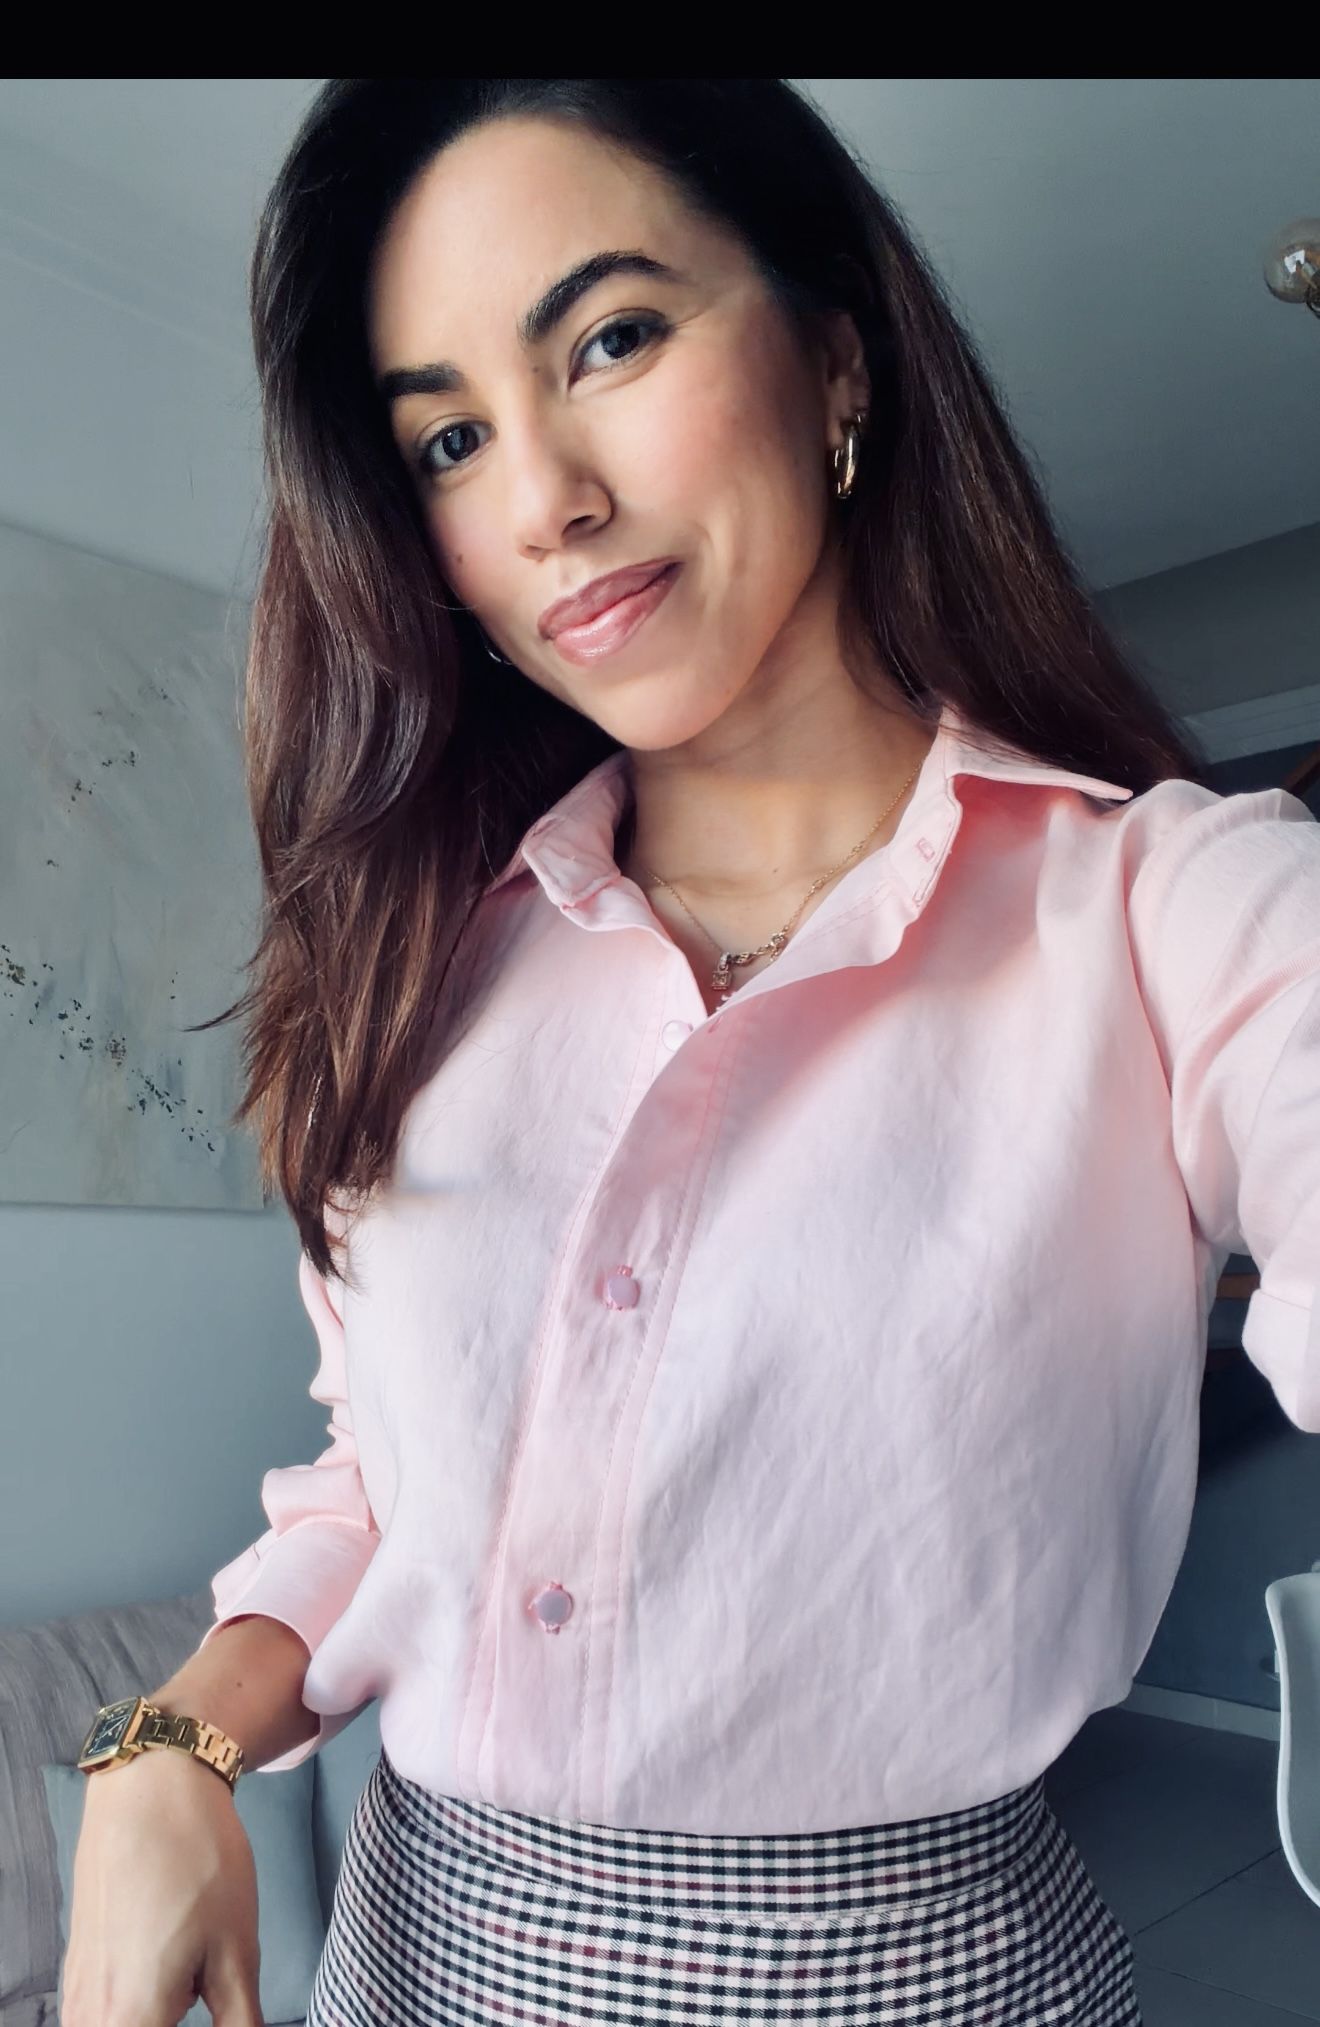
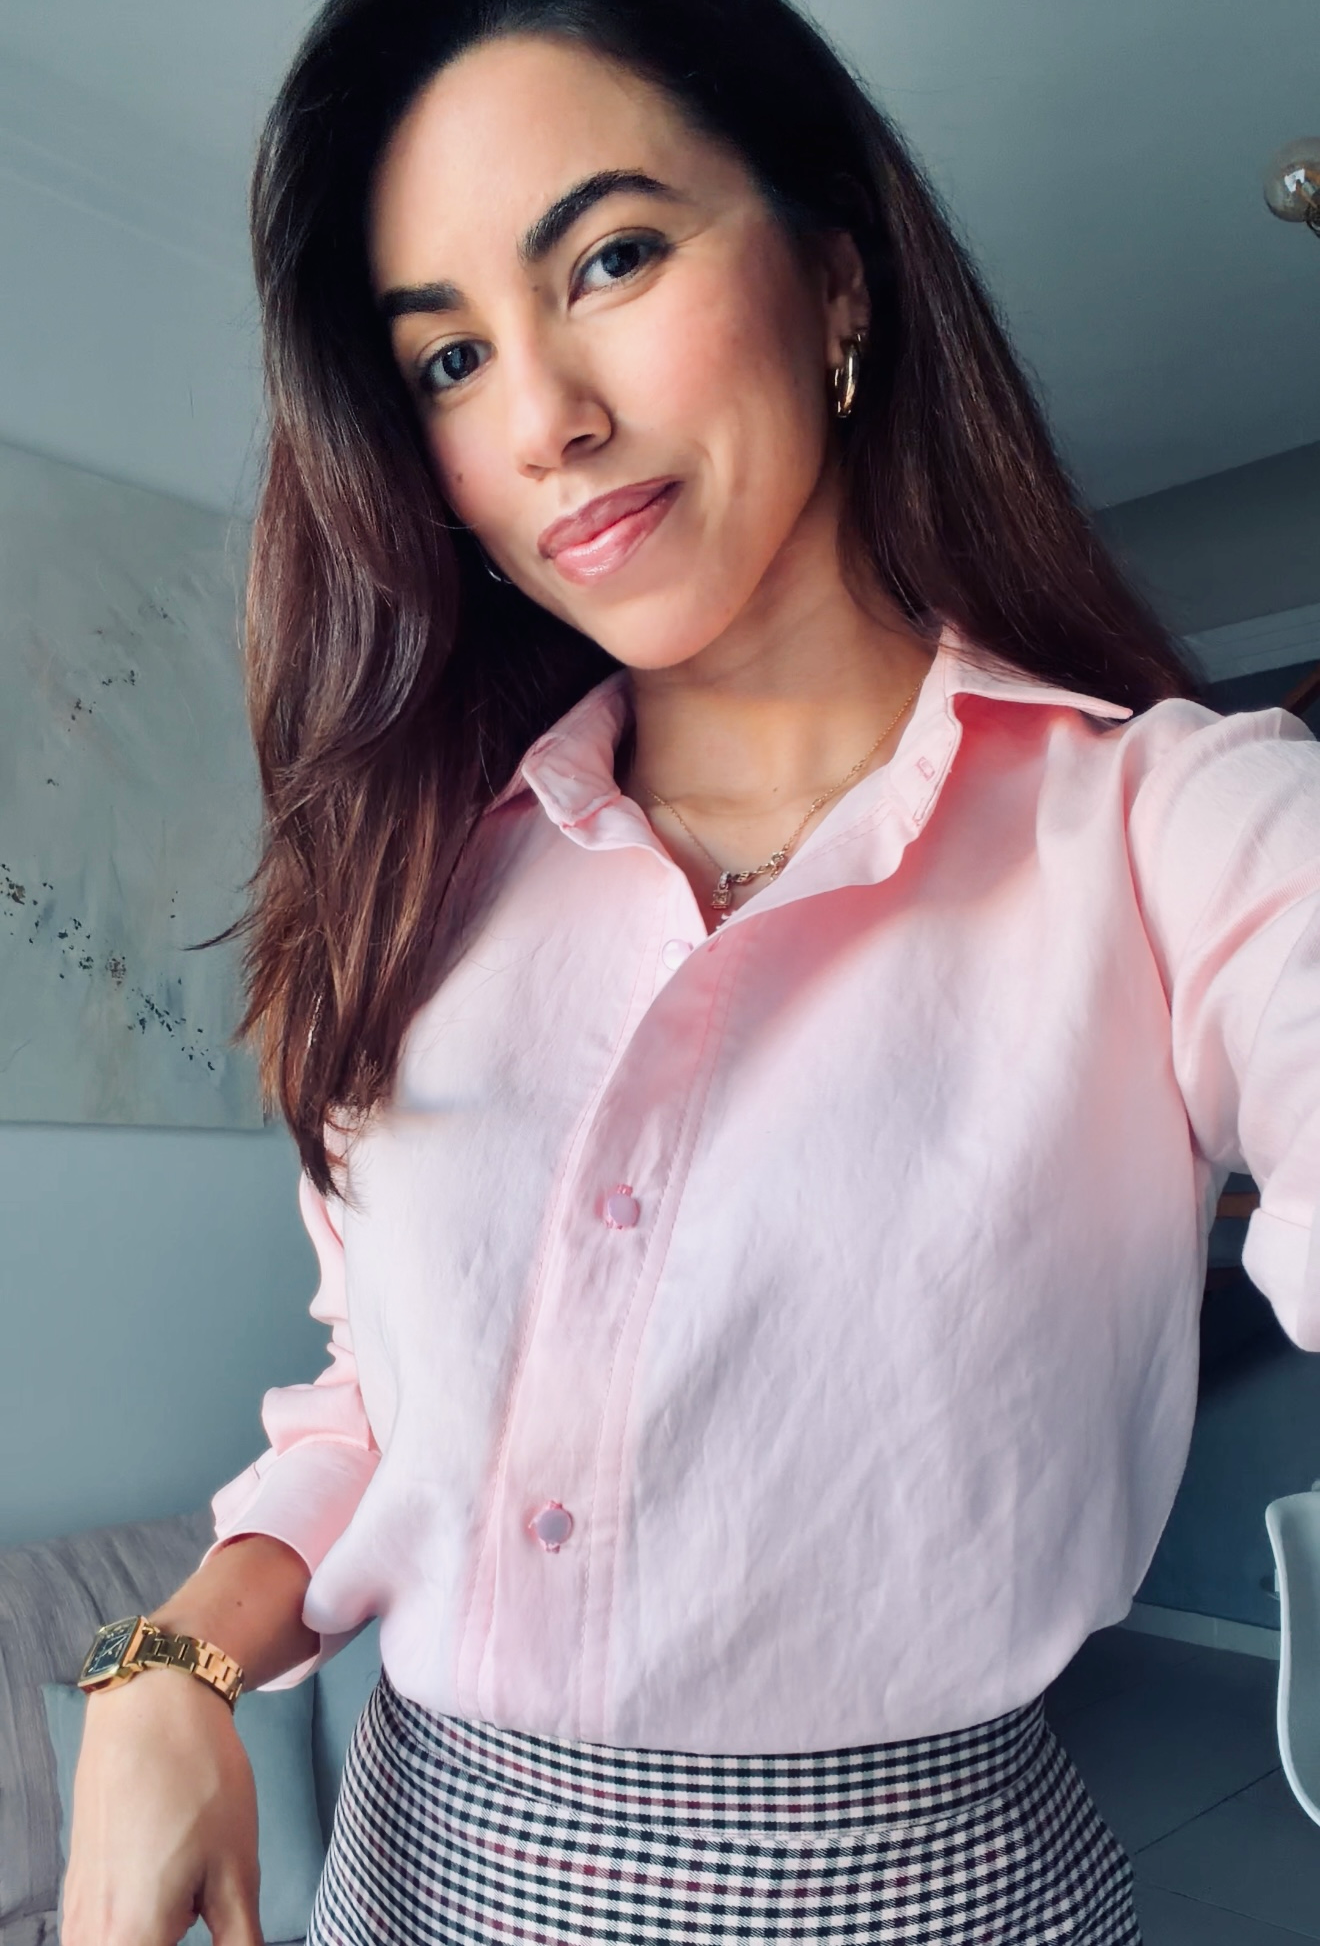
style: reordenar grids em mobile, ajustar posições de imagens, atualizar contraste e cores, substituir imagem camisa03

diff --git a/PagesComponents/Home/Home.jsx b/PagesComponents/Home/Home.jsx
@@ -362,7 +362,8 @@ export default function HomePage() {
         </S.ShirtCopy>
       </S.ShirtSection>
 
-      <S.GalleryBlock $wine>
+      {/* TODO: Mover seção "Comunidade" para outra página */}
+      {/* <S.GalleryBlock $wine>
         <S.SectionIntro $light className="reveal">
           <S.SectionLabel $light>Comunidade</S.SectionLabel>
           <h2>Vem ver o que as agulhinhas estão fazendo!</h2>
@@ -372,9 +373,10 @@ export default function HomePage() {
           altPrefix="Foto da aluna — trabalhos e peças da comunidade Grazyela Couto"
           light={true}
         />
-      </S.GalleryBlock>
+      </S.GalleryBlock> */}
 
-      <S.GalleryBlock $mist>
+      {/* TODO: Mover seção "Coleção" para outra página */}
+      {/* <S.GalleryBlock $mist>
         <S.SectionIntro className="reveal">
           <S.SectionLabel>Coleção</S.SectionLabel>
           <h2>Algumas das peças que você irá aprender</h2>
@@ -384,7 +386,7 @@ export default function HomePage() {
           altPrefix="Peça de roupa que você aprende nos cursos de modelagem e costura"
           light={false}
         />
-      </S.GalleryBlock>
+      </S.GalleryBlock> */}
 
       <S.AboutSection className="reveal" aria-labelledby="prof-title">
         <S.AboutPortrait

diff --git a/PagesComponents/Maratona/style.jsx b/PagesComponents/Maratona/style.jsx
@@ -68,10 +68,10 @@ const tokens = css`
   --atelier-ui:      "DM Sans", system-ui, sans-serif;
 
   /* Verona-specific */
-  --verona-wine:      #5c1620;
-  --verona-wine-dark: #3d0e16;
+  --verona-wine:      #572443;
+  --verona-wine-dark: #3d1828;
   --verona-sage:      #5b6545;
-  --verona-sage-dark: #3f4a30;
+  --verona-sage-dark: #8d9a74;
   --verona-cream:     #f5f0e8;
   --verona-olive-text:#4a5535;
 `;
